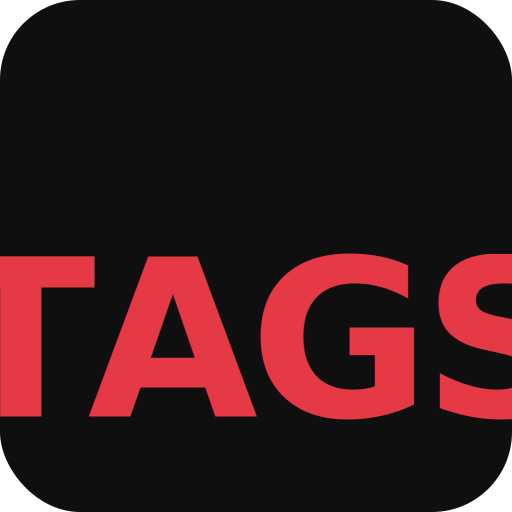
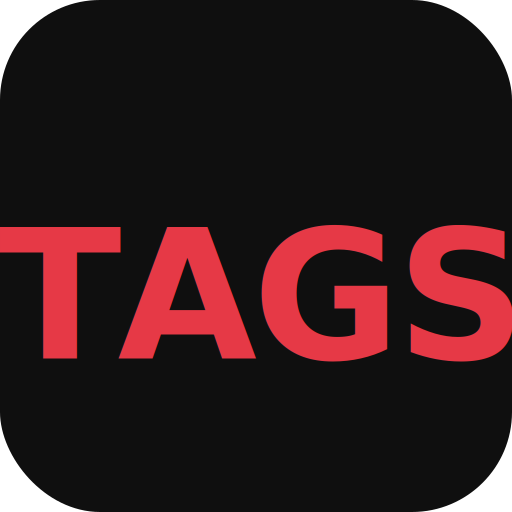
fix : icône PWA avec marges, responsive mobile

diff --git a/index.html b/index.html
@@ -44,12 +44,13 @@
       display: flex;
       align-items: center;
       justify-content: space-between;
-      padding: 0 20px;
+      padding: 0 12px;
       height: 52px;
       border-bottom: 0.5px solid var(--border);
       background: var(--surface);
       flex-shrink: 0;
       z-index: 1000;
+      gap: 8px;
     }
 
     .logo {
@@ -57,6 +58,7 @@
       font-size: 22px;
       color: var(--accent);
       letter-spacing: 1px;
+      flex-shrink: 0;
     }
 
     .logo span {
@@ -67,12 +69,24 @@
       opacity: 0.6;
     }
 
-    .header-actions { display: flex; gap: 10px; align-items: center; }
+    /* Cacher le tagline sur mobile */
+    @media (max-width: 600px) {
+      .logo span { display: none; }
+    }
+
+    .header-actions {
+      display: flex;
+      gap: 6px;
+      align-items: center;
+      overflow: hidden;
+      flex-shrink: 1;
+      min-width: 0;
+    }
 
     .btn {
       font-family: 'Caveat', cursive;
       font-size: 15px;
-      padding: 6px 16px;
+      padding: 6px 12px;
       border-radius: 6px;
       border: 0.5px solid var(--border);
       background: transparent;
@@ -80,9 +94,17 @@
       cursor: pointer;
       text-decoration: none;
       transition: background 0.15s;
+      white-space: nowrap;
+      flex-shrink: 0;
     }
 
     .btn:hover { background: rgba(255,255,255,0.06); }
+
+    /* Cacher "À propos" sur petits écrans */
+    @media (max-width: 480px) {
+      #h-about { display: none; }
+      .count-badge { display: none; }
+    }
 
     .btn-primary {
       background: var(--accent);
@@ -92,29 +114,44 @@
 
     .btn-primary:hover { background: #c1121f; }
 
+    /* Raccourcir le bouton ajouter sur mobile */
+    @media (max-width: 480px) {
+      #h-add { font-size: 13px; padding: 6px 10px; }
+    }
+
     .filters {
       display: flex;
       align-items: center;
-      gap: 8px;
-      padding: 8px 20px;
+      gap: 6px;
+      padding: 6px 12px;
       background: var(--surface);
       border-bottom: 0.5px solid var(--border);
       flex-shrink: 0;
       overflow-x: auto;
+      scrollbar-width: none; /* Firefox */
+      -ms-overflow-style: none;
     }
 
-    .filter-label { font-size: 13px; color: var(--text-muted); white-space: nowrap; }
+    .filters::-webkit-scrollbar { display: none; } /* Chrome/Safari */
+
+    .filter-label {
+      font-size: 13px;
+      color: var(--text-muted);
+      white-space: nowrap;
+      flex-shrink: 0;
+    }
 
     .filter-btn {
       font-family: 'Caveat', cursive;
       font-size: 13px;
-      padding: 3px 12px;
+      padding: 3px 10px;
       border-radius: 20px;
       border: 0.5px solid var(--border);
       background: transparent;
       color: var(--text-muted);
       cursor: pointer;
       white-space: nowrap;
+      flex-shrink: 0;
       transition: all 0.15s;
     }
 
@@ -535,8 +572,8 @@
     /* Bouton installation PWA */
     .btn-install {
       position: absolute;
-      bottom: 32px;
-      right: 180px;
+      bottom: 80px;
+      right: 12px;
       z-index: 1000;
       height: 40px;
       padding: 0 14px;
@@ -547,7 +584,7 @@
       font-family: 'Caveat', cursive;
       font-size: 15px;
       cursor: pointer;
-      display: none; /* caché par défaut, affiché via JS quand disponible */
+      display: none;
       align-items: center;
       gap: 6px;
       box-shadow: 0 2px 8px rgba(0,0,0,0.4);

diff --git a/service-worker.js b/service-worker.js
@@ -4,7 +4,7 @@
 //  et un fonctionnement partiel hors ligne
 // ============================================================
 
-const CACHE_NAME = 'tags-map-v5';
+const CACHE_NAME = 'tags-map-v7';
 
 // Ressources à mettre en cache au premier chargement
 const STATIC_ASSETS = [
@@ -41,6 +41,13 @@ self.addEventListener('activate', (event) => {
     )
   );
   self.clients.claim();
+});
+
+// --- Message SKIP_WAITING : forcer la mise à jour immédiate ---
+self.addEventListener('message', (event) => {
+  if (event.data && event.data.type === 'SKIP_WAITING') {
+    self.skipWaiting();
+  }
 });
 
 // --- Fetch : stratégie Network First pour les données,